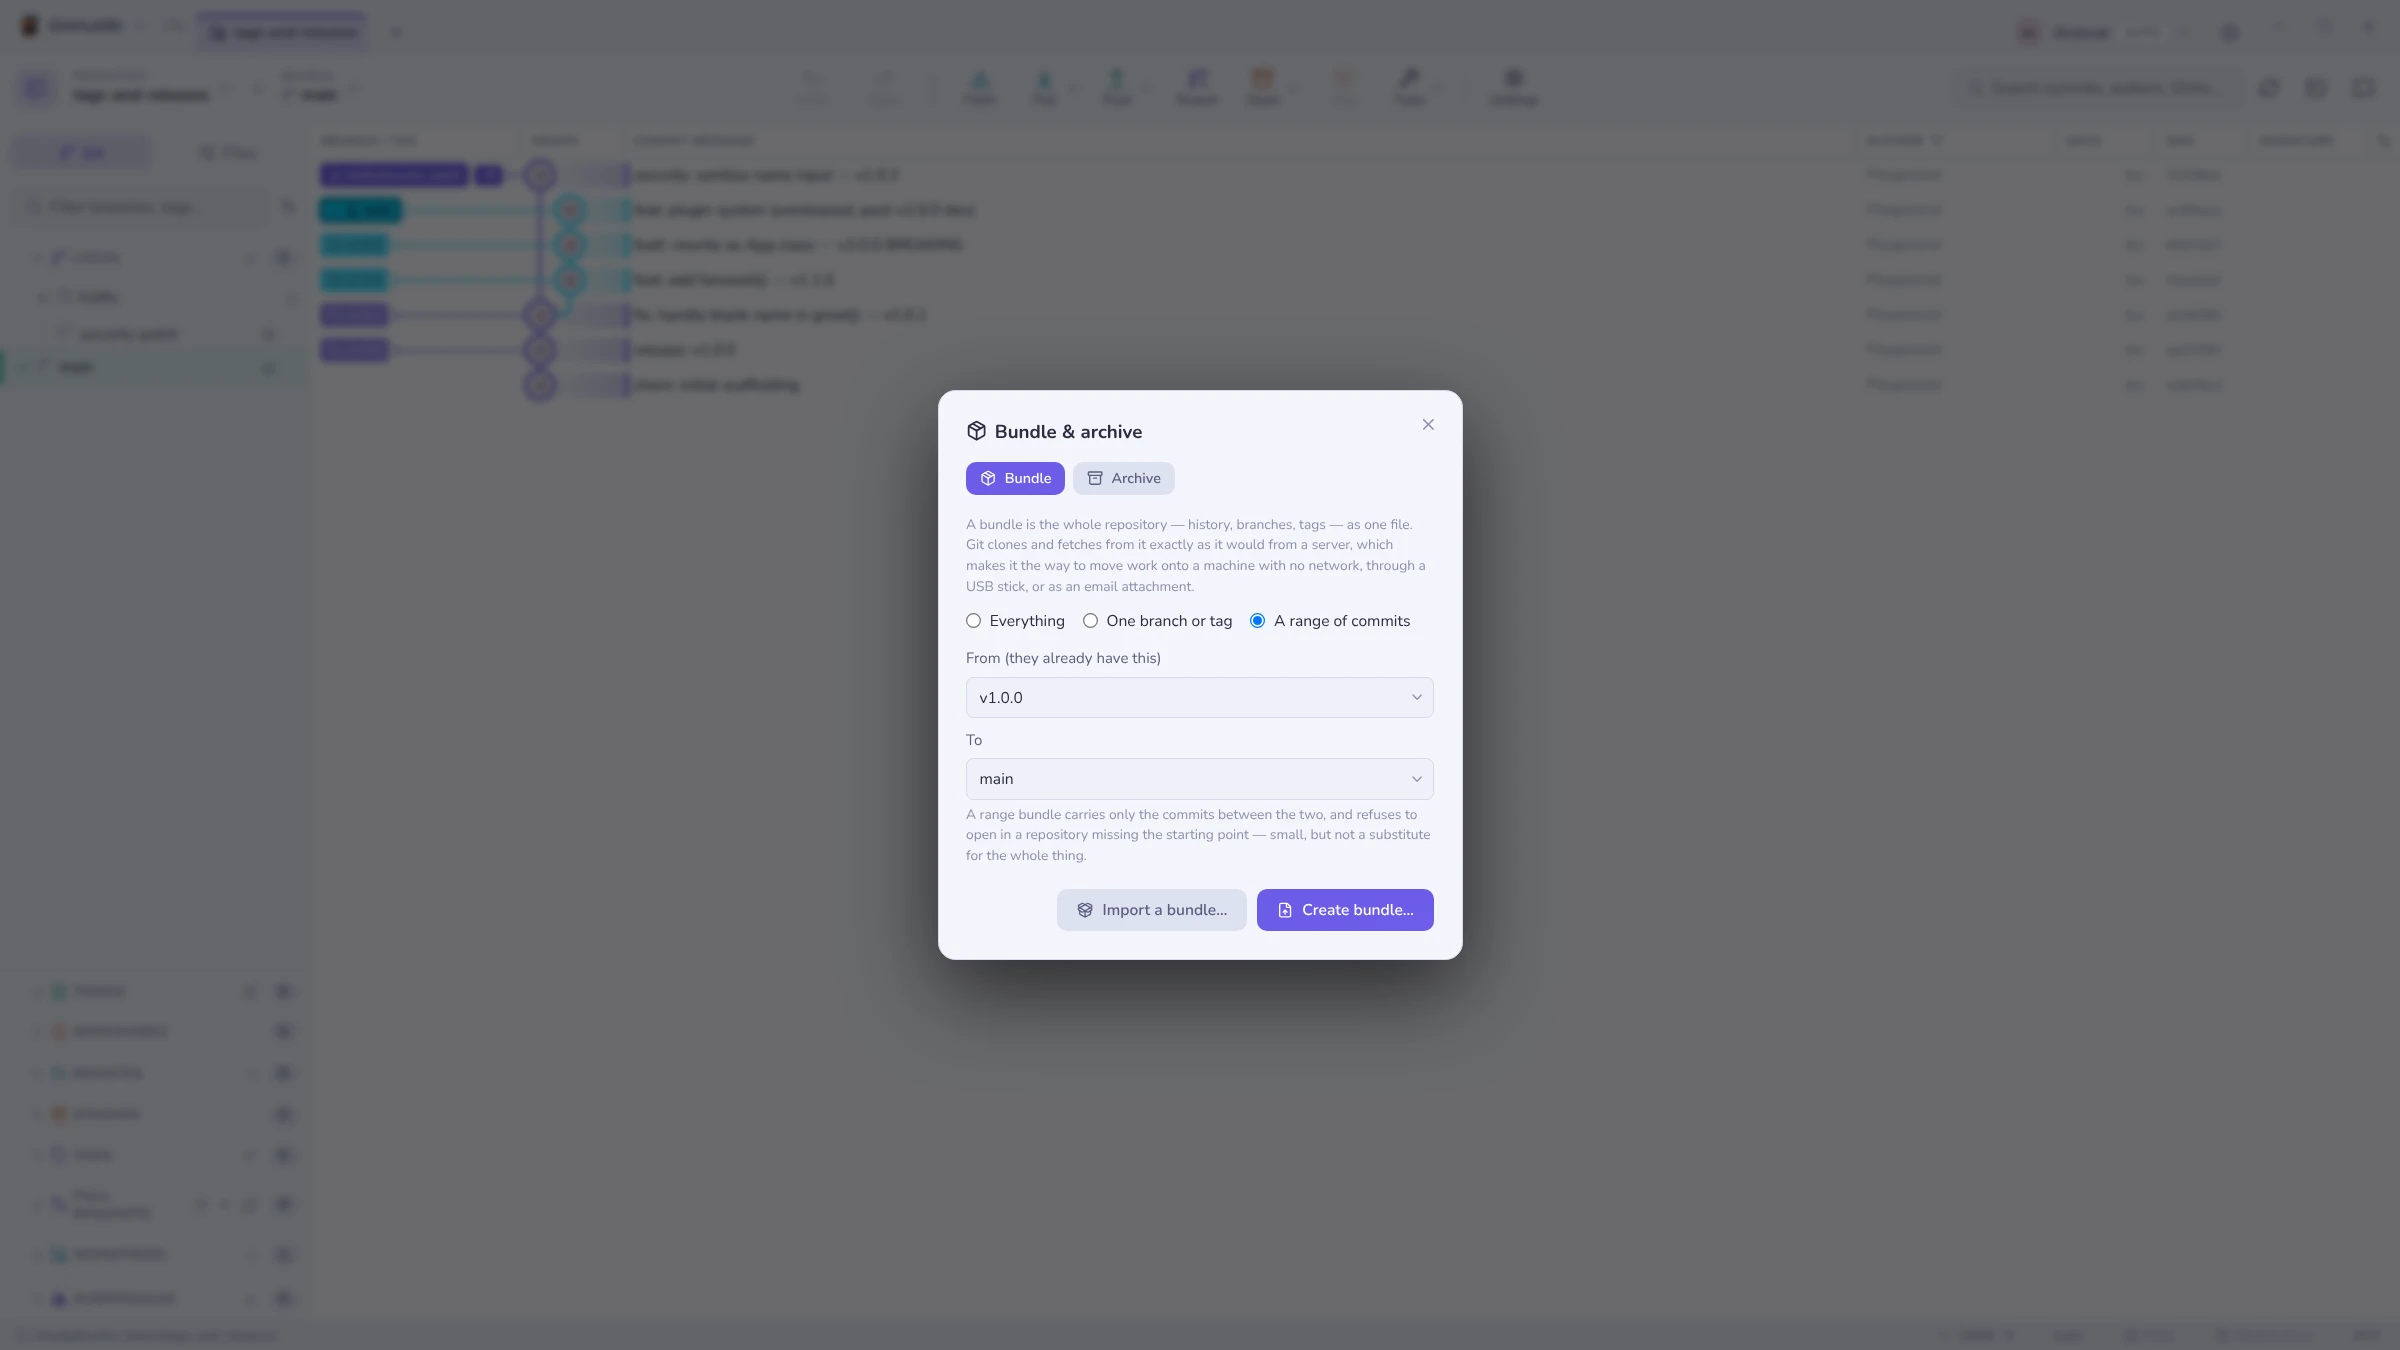
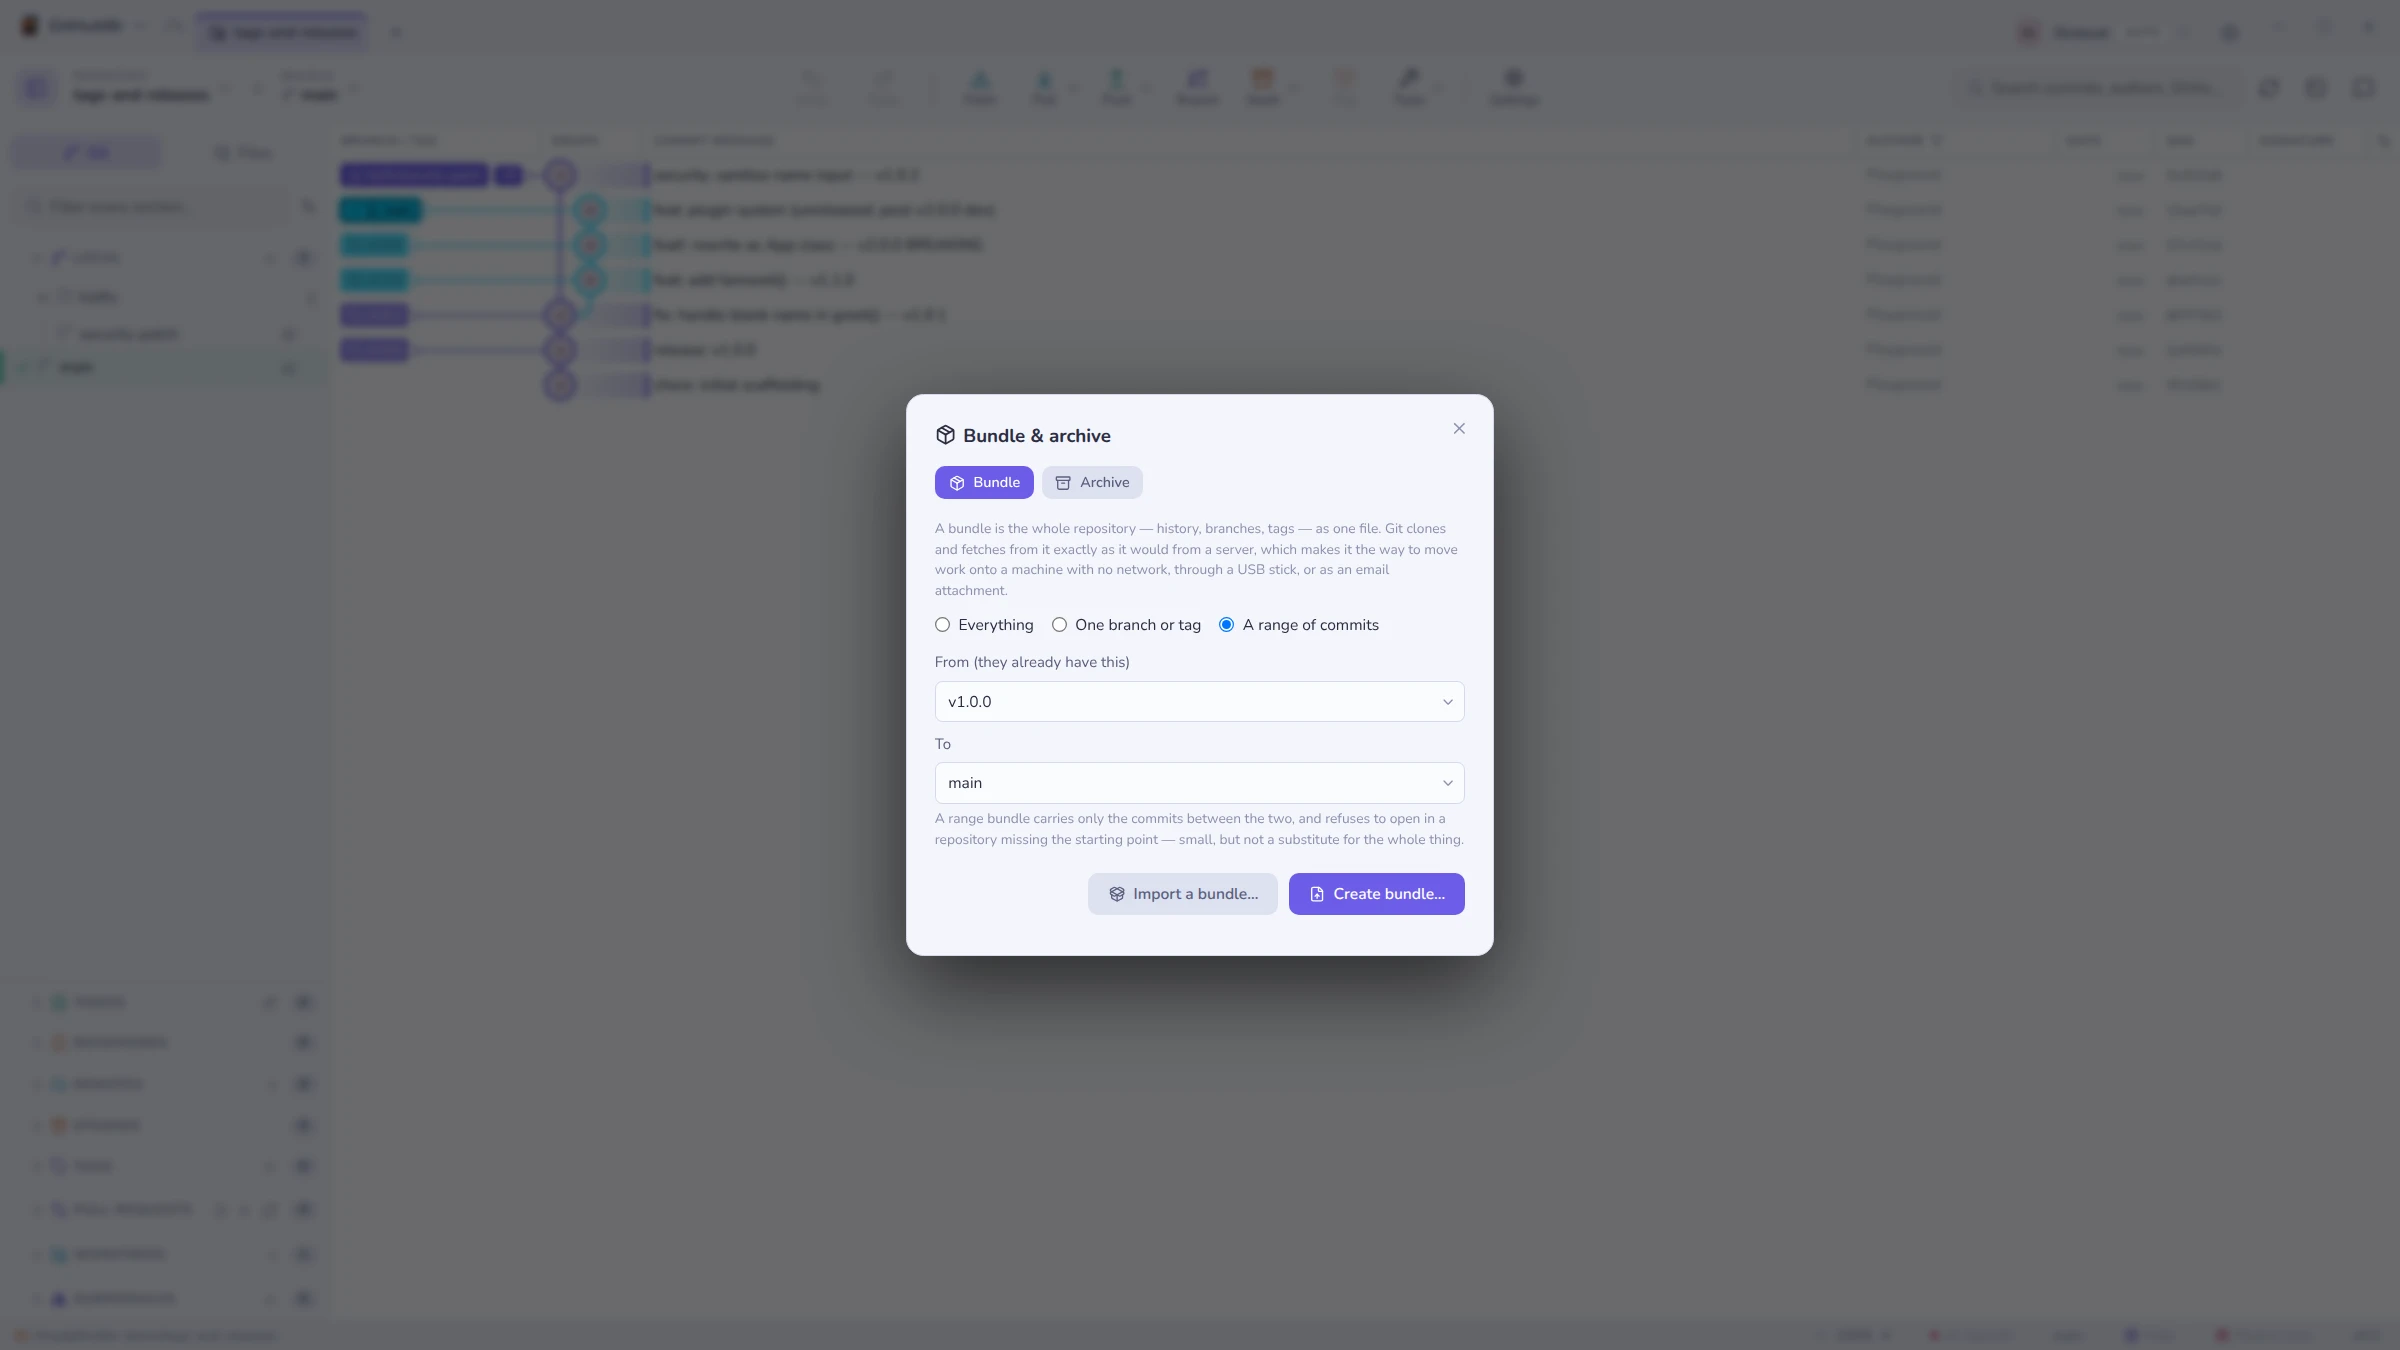
style(dialogs): one size per group of dialogs, set in one place
- --modal-w, --modal-w-md, --modal-w-wide and --modal-w-tall: resizing one dialog resizes its group
- the standard group follows Merge with options: 470px, room under the buttons, no early scroll

Changed region(s): [[0.375, 0.28, 0.625, 0.7156], [0.125, 0.1244, 0.2188, 0.28], [0.2188, 0.1556, 0.25, 0.2489]]

diff --git a/src/renderer/src/styles.css b/src/renderer/src/styles.css
@@ -6,6 +6,13 @@
      follows every theme — a little lighter than the panel in a dark theme,
      never the theme's darkest shade (--bg-0), which read as a black hole. */
   --field-bg: color-mix(in srgb, var(--bg-1) 55%, var(--bg-2));
+  /* Dialog sizes, one per group: every dialog of a group takes its size from
+     here, so resizing one group resizes all of its dialogs at once.
+     The standard one follows Merge with options. */
+  --modal-w: 470px;
+  --modal-w-md: 504px;
+  --modal-w-wide: 740px;
+  --modal-w-tall: 820px;
   /* GitHuttBr Default brand palette */
   --githuttbr-primary: #2b2d42;
   --githuttbr-purple: #6c5ce7;
@@ -6579,10 +6586,11 @@ body.col-resizing .node-ava {
   box-shadow: 0 24px 70px rgba(0, 0, 0, 0.6);
 }
 
-/* Merge with options: 50px wider than a plain dialog and a little taller, so its
-   five fields and their hints fit without the dialog scrolling. */
-.modal.modal-merge-options {
-  width: 470px;
+/* The standard dialog (Merge with options, Bundle & archive, and every dialog
+   without a size of its own): its width from --modal-w, 10px of room under its
+   buttons, and more height before it scrolls. */
+.modal.modal-std {
+  width: var(--modal-w);
   max-height: calc(100vh - 40px);
   padding-bottom: 10px;
 }
@@ -6621,18 +6629,18 @@ body.col-resizing .node-ava {
 }
 
 .modal-wide {
-  width: 740px;
+  width: var(--modal-w-wide);
 }
 
 /* 20% over the default 420px: room for a repository list worth multi-selecting. */
 .modal-clone {
-  width: 740px;
+  width: var(--modal-w-wide);
 }
 
 /* 20% over the default 420px: branch names, their state badges and the
    "tracks origin/…" line fit without wrapping. */
 .modal-push-branches {
-  width: 504px;
+  width: var(--modal-w-md);
 }
 
 /* Wide enough for a long PR branch name plus its reason chips on one line. */
@@ -6640,10 +6648,10 @@ body.col-resizing .node-ava {
   width: 600px;
 }
 
-/* 20px over the default 420px: the reviewer, assignee and label chips and the
-   two checkboxes breathe without wrapping. */
+/* The standard width: the reviewer, assignee and label chips and the two
+   checkboxes breathe without wrapping. */
 .modal-create-pr {
-  width: 440px;
+  width: var(--modal-w);
 }
 
 /* ─── Settings import: choose the parts, translate the paths ───────────── */
@@ -8306,7 +8314,7 @@ body.col-resizing .node-ava {
 /* Open repository and Scanned repositories: 20% wider than a plain dialog,
    so paths in the lists read further before they are cut. */
 .modal.modal-launcher {
-  width: 504px;
+  width: var(--modal-w-md);
 }
 
 .launcher-list {
@@ -14614,7 +14622,7 @@ input[type='range']:focus-visible {
 }
 
 /* ── Branch comparison: a centre-pane view (was a modal) ── */
-.modal-tall { width: 820px; max-width: calc(100vw - 48px); }
+.modal-tall { width: var(--modal-w-tall); max-width: calc(100vw - 48px); }
 .compare-header { flex-wrap: wrap; row-gap: 6px; }
 .compare-title { display: flex; align-items: center; gap: 8px; font-size: 13px; flex-shrink: 0; }
 .compare-title svg { color: var(--accent, #6366f1); }

diff --git a/src/renderer/src/components/ModalHost.tsx b/src/renderer/src/components/ModalHost.tsx
@@ -2493,8 +2493,6 @@ export function ModalHost(): React.JSX.Element {
                   ? 'modal-wide'
                   : modal.kind === 'launcher' || modal.kind === 'scanned-repos'
                   ? 'modal-launcher'
-                  : modal.kind === 'merge-options'
-                  ? 'modal-merge-options'
                   : modal.kind === 'interactive-rebase' ||
                       modal.kind === 'conflict-radar' ||
                       modal.kind === 'range-diff' ||
@@ -2523,7 +2521,7 @@ export function ModalHost(): React.JSX.Element {
                       modal.kind === 'cli-edit' ||
                       modal.kind === 'stack'
                     ? 'modal-tall'
-                    : ''
+                    : 'modal-std'
               }`}
               initial={{ opacity: 0, scale: 0.94, y: 16 }}
               animate={{ opacity: 1, scale: 1, y: 0 }}
@@ -2671,7 +2669,7 @@ export function ModalHost(): React.JSX.Element {
               className={
                 dialog.kind === 'settings-import' || dialog.kind === 'settings-export'
                   ? 'modal modal-settings-import'
-                  : 'modal'
+                  : 'modal modal-std'
               }
               initial={{ opacity: 0, scale: 0.96, y: 10 }}
               animate={{ opacity: 1, scale: 1, y: 0 }}

diff --git a/src/renderer/src/components/SettingsPanel.tsx b/src/renderer/src/components/SettingsPanel.tsx
@@ -2542,7 +2542,7 @@ function ThemeDialog({
         if (e.target === e.currentTarget) onClose()
       }}
     >
-      <div className="modal">
+      <div className="modal modal-std">
         <button className="modal-close" title={t('common.close')} aria-label={t('common.close')} onClick={onClose}>
           <X size={15} />
         </button>
